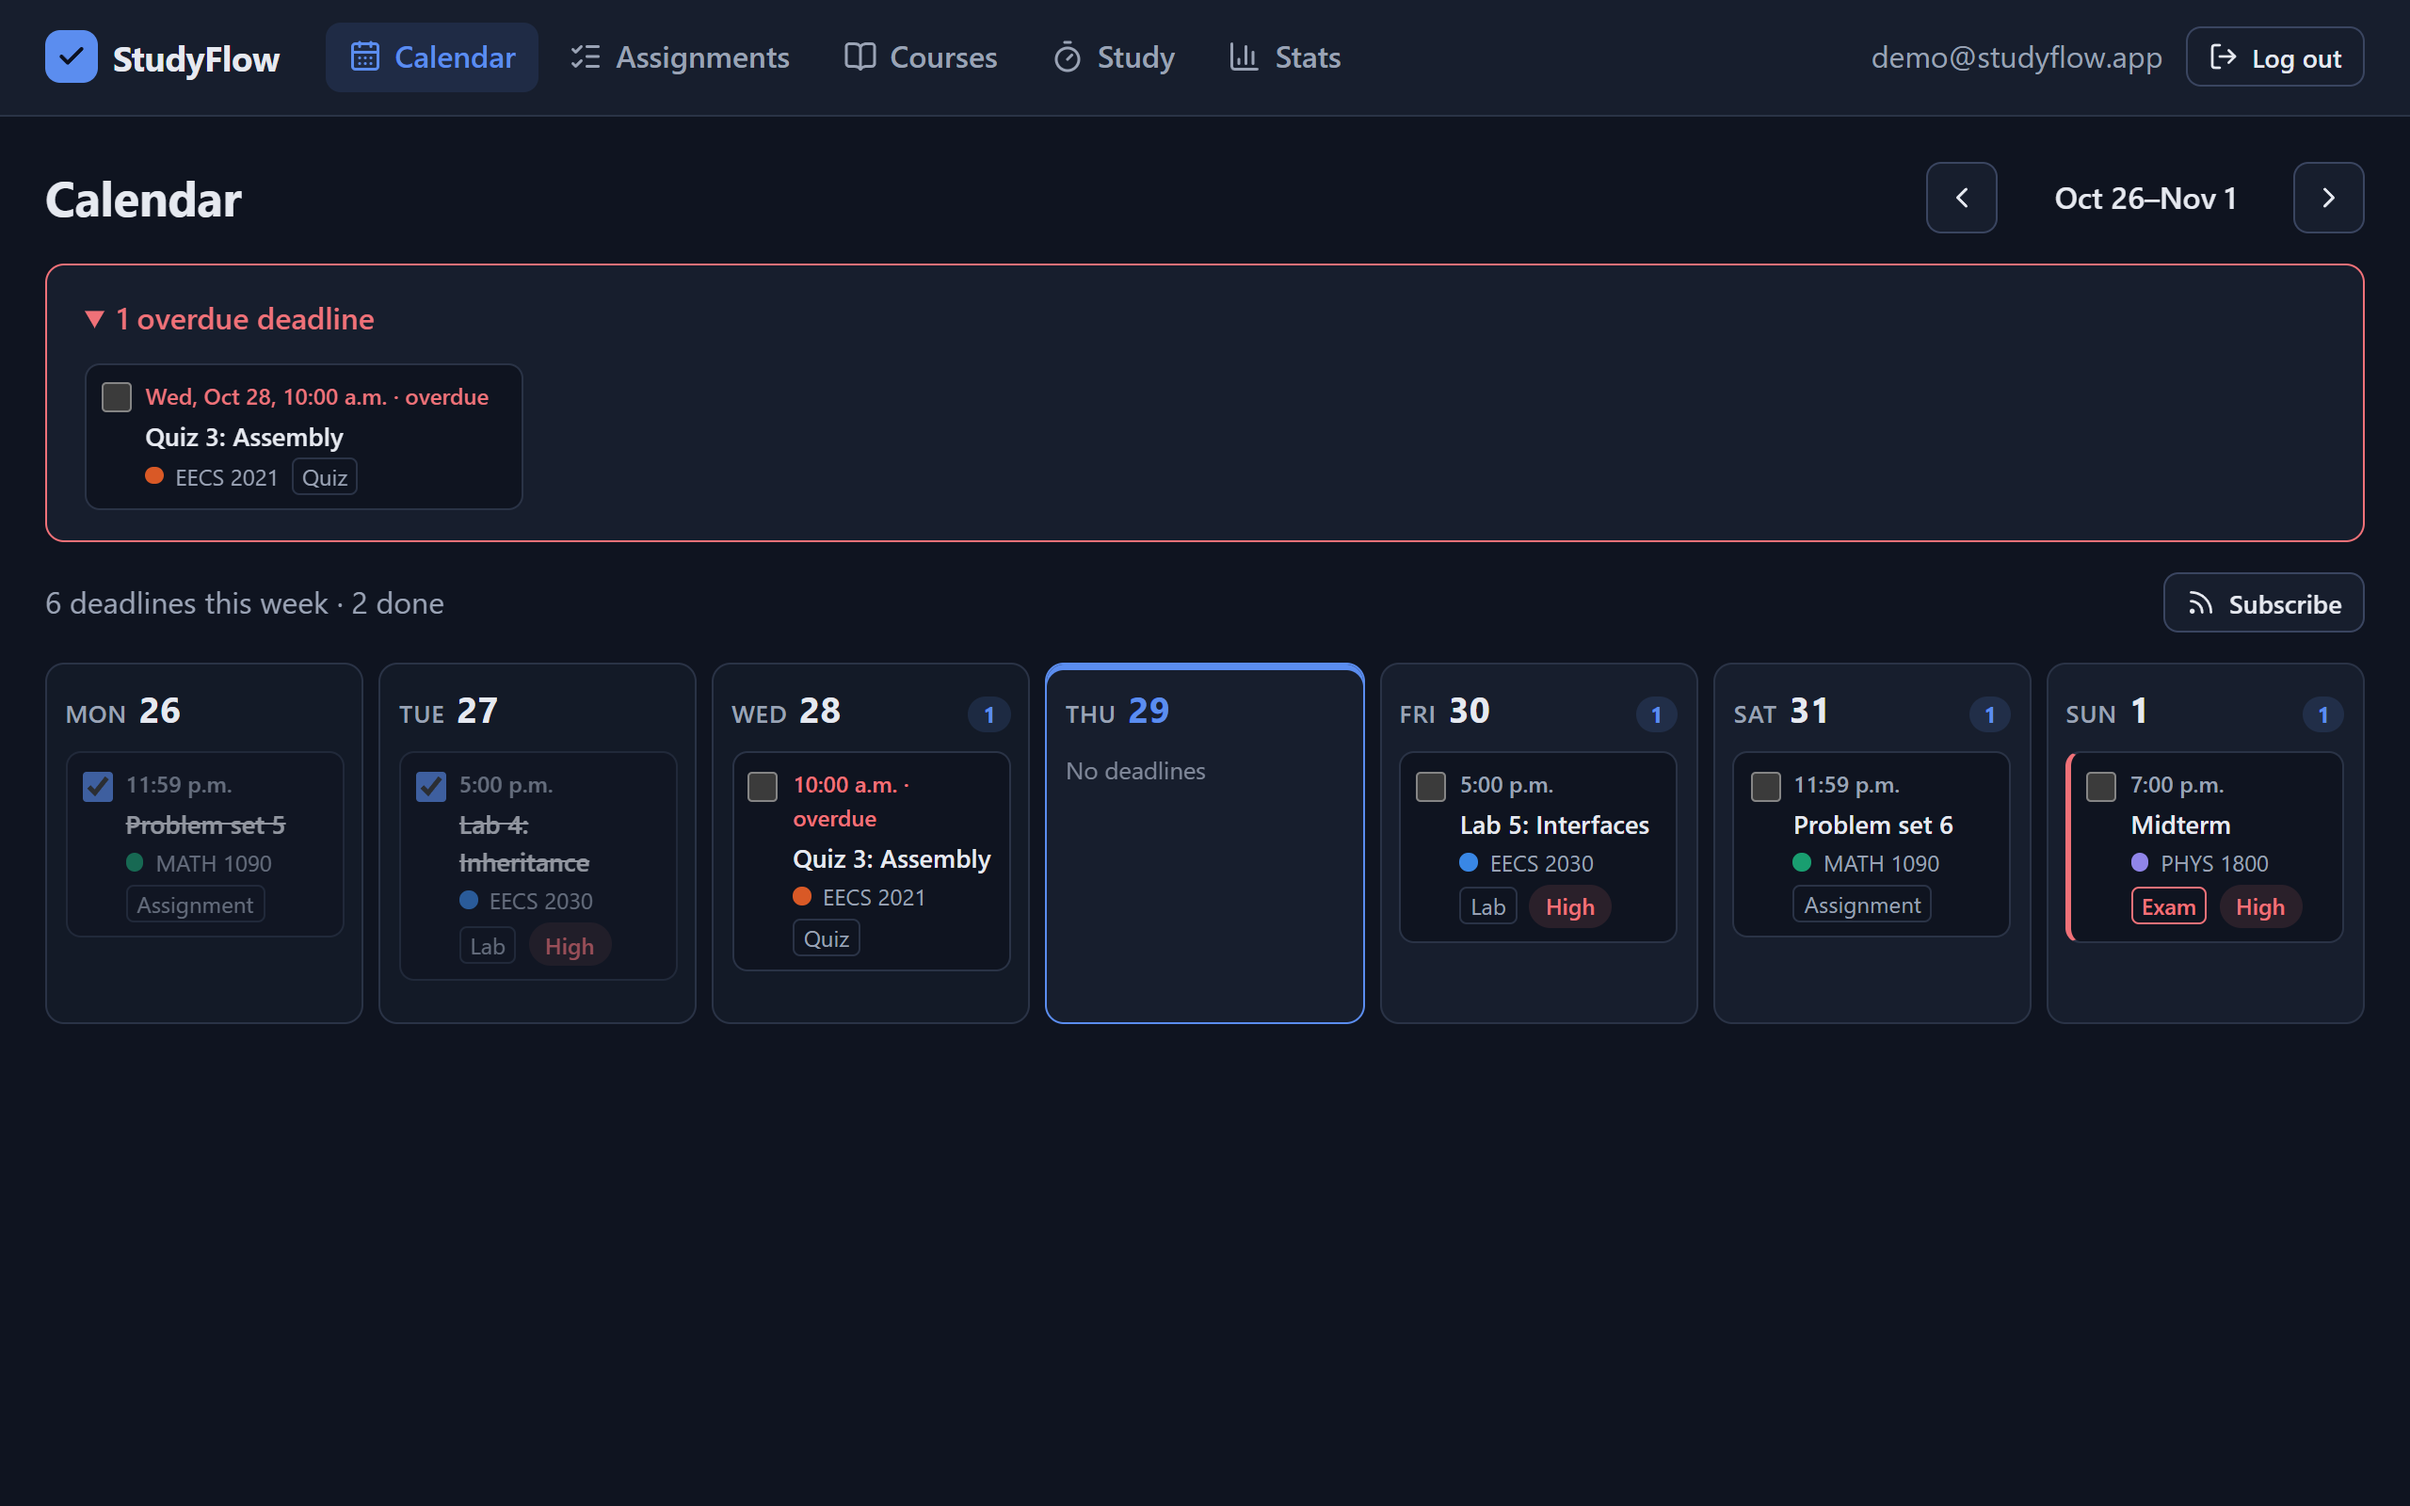
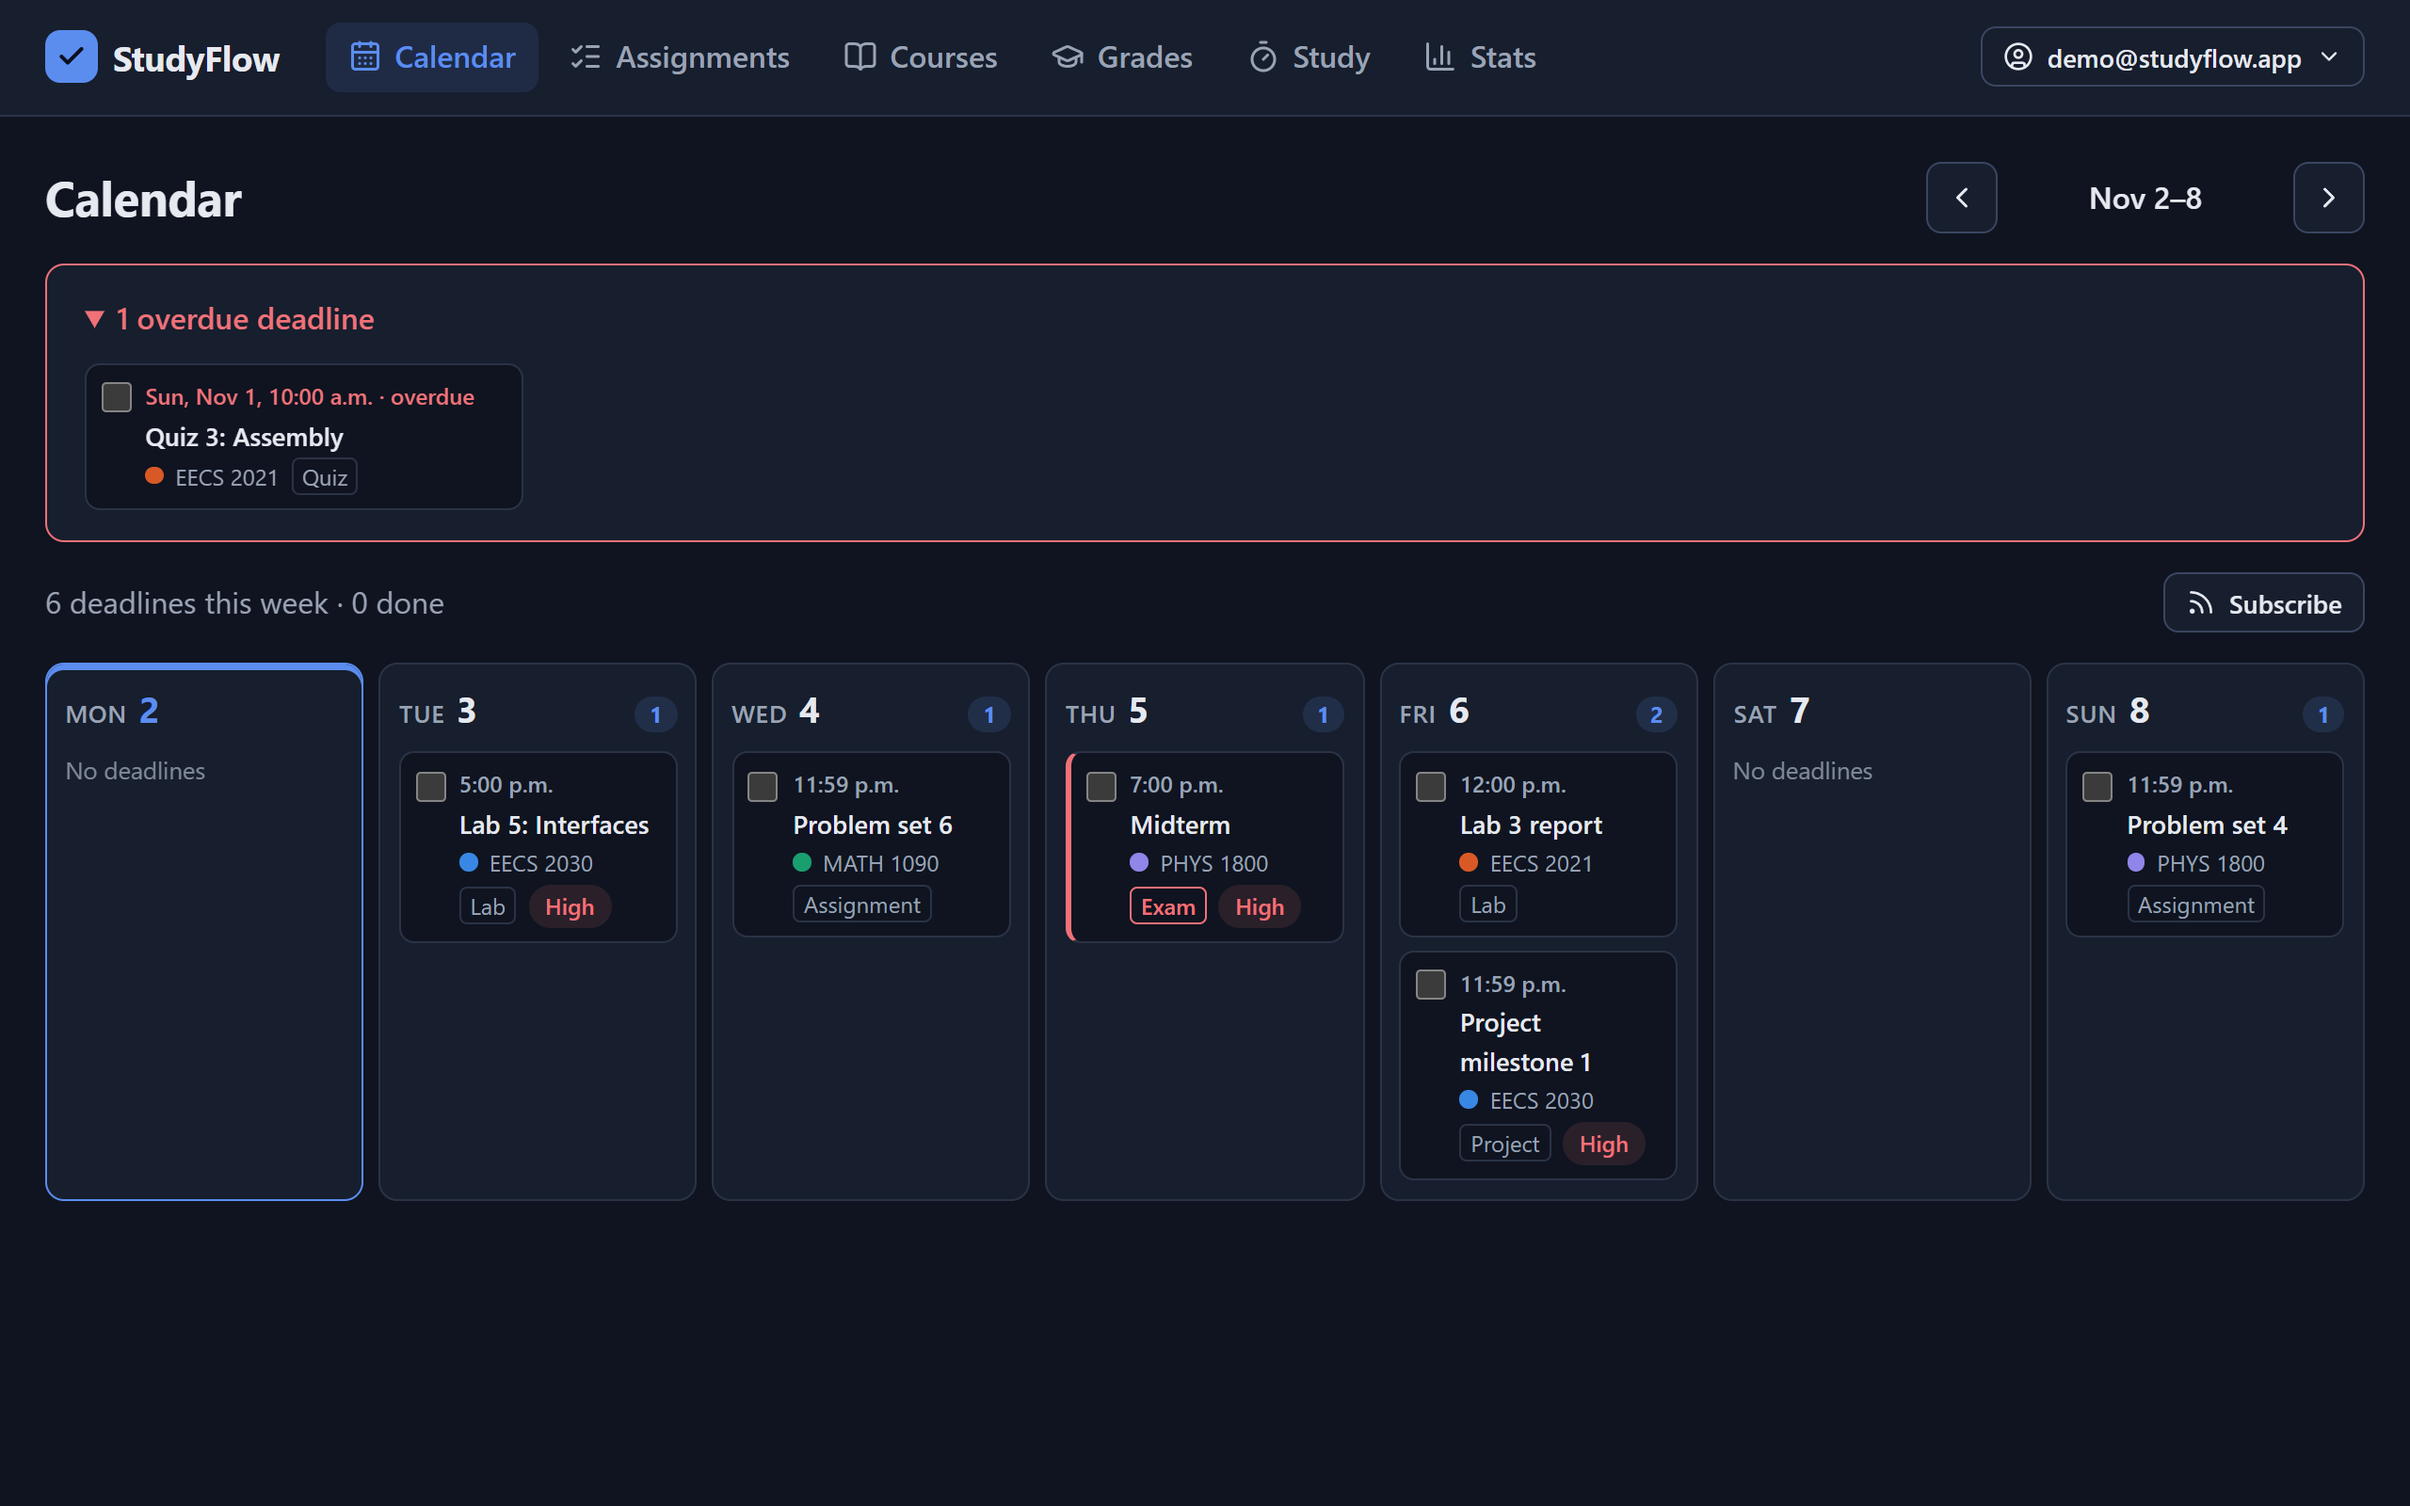
Refresh screenshots; show grades and shared courses in the README and landing page
- Regenerated every README screenshot and landing-page image from the current UI.
- New Grades and sharing screenshots, in the README and as two new landing-page
  features; two more landing extras (repeating deadlines, calendar feed).
- The screenshot script logs in through the refresh cookie (localStorage tokens are
  gone since the safer-login change), adds two sample classmates to a demo course,
  and now also writes the landing page's WebP images from the same captures.

diff --git a/frontend/src/pages/LandingPage.tsx b/frontend/src/pages/LandingPage.tsx
@@ -3,11 +3,15 @@ import {
   CalendarDays,
   Check,
   Code,
+  GraduationCap,
   ListChecks,
   Moon,
+  Repeat,
+  Rss,
   ShieldCheck,
   Smartphone,
   Timer,
+  Users,
   type LucideIcon,
 } from "lucide-react";
 import { useRef, type CSSProperties } from "react";
@@ -16,8 +20,10 @@ import { Link } from "react-router";
 import assignmentsShot from "../assets/landing/assignments.webp";
 import calendarMobileShot from "../assets/landing/calendar-mobile.webp";
 import calendarShot from "../assets/landing/calendar.webp";
+import gradesShot from "../assets/landing/grades.webp";
 import heroDarkShot from "../assets/landing/hero-calendar-dark.webp";
 import heroShot from "../assets/landing/hero-calendar.webp";
+import sharingShot from "../assets/landing/sharing.webp";
 import statsShot from "../assets/landing/stats.webp";
 import studyShot from "../assets/landing/study.webp";
 import { DemoButton } from "../components/DemoButton";
@@ -89,9 +95,45 @@ const FEATURES: Feature[] = [
     shot: statsShot,
     alt: "Weekly stats: a stacked bar chart of study hours per day, by course",
   },
+  {
+    icon: GraduationCap,
+    eyebrow: "Grades",
+    title: "Know what you need on the final",
+    body: "Give deadlines a weight and enter your marks. StudyFlow works out where each course stands.",
+    points: [
+      "Your grade so far, and the best and worst it can still be",
+      "The mark you need on the rest for every letter grade",
+      "Exact maths: \"you need 72.34%\" really is enough",
+    ],
+    shot: gradesShot,
+    alt: "The grades page: grade so far, possible range, and the mark needed for each letter",
+  },
+  {
+    icon: Users,
+    eyebrow: "Study groups",
+    title: "Share a course with your classmates",
+    body: "Send an invite link and everyone gets the same deadlines. Whoever hears about a change updates it for all.",
+    points: [
+      "Everyone ticks off and marks their own work, privately",
+      "Replace or turn off the link at any time",
+      "The owner decides who stays in",
+    ],
+    shot: sharingShot,
+    alt: "Sharing a course: an invite link and the classmates who joined",
+  },
 ];
 
 const EXTRAS: { icon: LucideIcon; title: string; body: string }[] = [
+  {
+    icon: Repeat,
+    title: "Repeating deadlines",
+    body: "A lab every Friday for the term, entered once and numbered for you.",
+  },
+  {
+    icon: Rss,
+    title: "In your calendar app",
+    body: "Subscribe from Google, Apple or Outlook Calendar and your deadlines stay in sync.",
+  },
   {
     icon: Smartphone,
     title: "Works on your phone",
@@ -241,7 +283,7 @@ export function LandingPage() {
               <p className="landing-eyebrow">Features</p>
               <h2 id="features-title">Everything a term throws at you</h2>
               <p className="muted">
-                Four views that share the same courses, so nothing has to be typed twice.
+                Every view shares the same courses, so nothing has to be typed twice.
               </p>
             </div>
 

diff --git a/frontend/src/styles.css b/frontend/src/styles.css
@@ -2369,7 +2369,7 @@ details.card[open] > summary {
   margin: 5rem 0 0;
   padding: 0;
   display: grid;
-  grid-template-columns: repeat(4, minmax(0, 1fr));
+  grid-template-columns: repeat(3, minmax(0, 1fr));
   gap: 1rem;
 }
 

diff --git a/README.md b/README.md
@@ -15,6 +15,10 @@ A full-stack productivity app for students: track courses and deadlines, focus w
 |---|---|
 | ![Stacked bar chart of study time per day by course, with totals](docs/screenshots/stats.png) | ![Focus timer counting down for a course, with the same countdown in the top bar](docs/screenshots/study.png) |
 
+| Grade tracker | Sharing a course with classmates |
+|---|---|
+| ![A course's grade so far, the range of possible final grades, and the mark needed on the rest for each letter grade](docs/screenshots/grades.png) | ![Share dialog with an invite link and the classmates who joined](docs/screenshots/sharing.png) |
+
 | Assignments with filters | Dark mode | Phone |
 |---|---|---|
 | ![Assignment list with course, status and date filters](docs/screenshots/assignments.png) | ![Calendar in dark mode](docs/screenshots/calendar-dark.png) | ![Calendar as a one-day-per-row agenda on a phone](docs/screenshots/calendar-mobile.png) |
